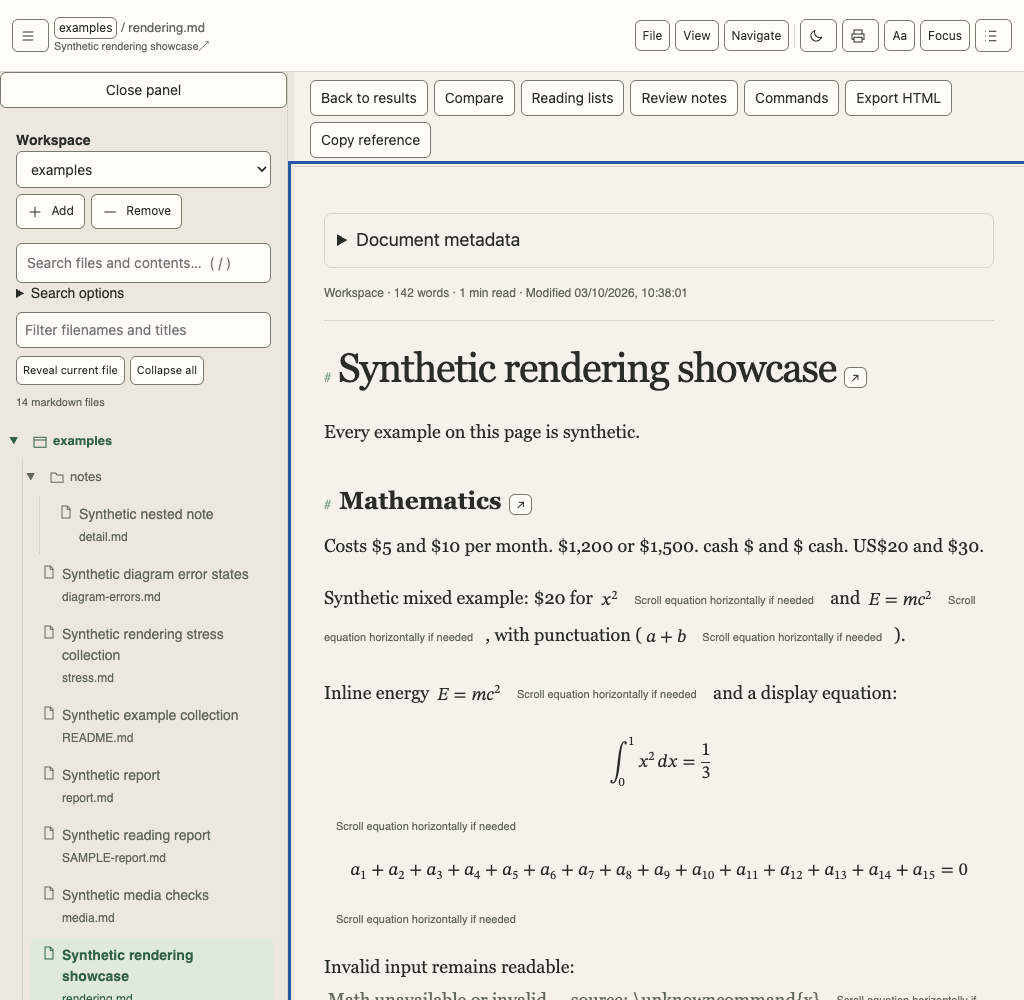
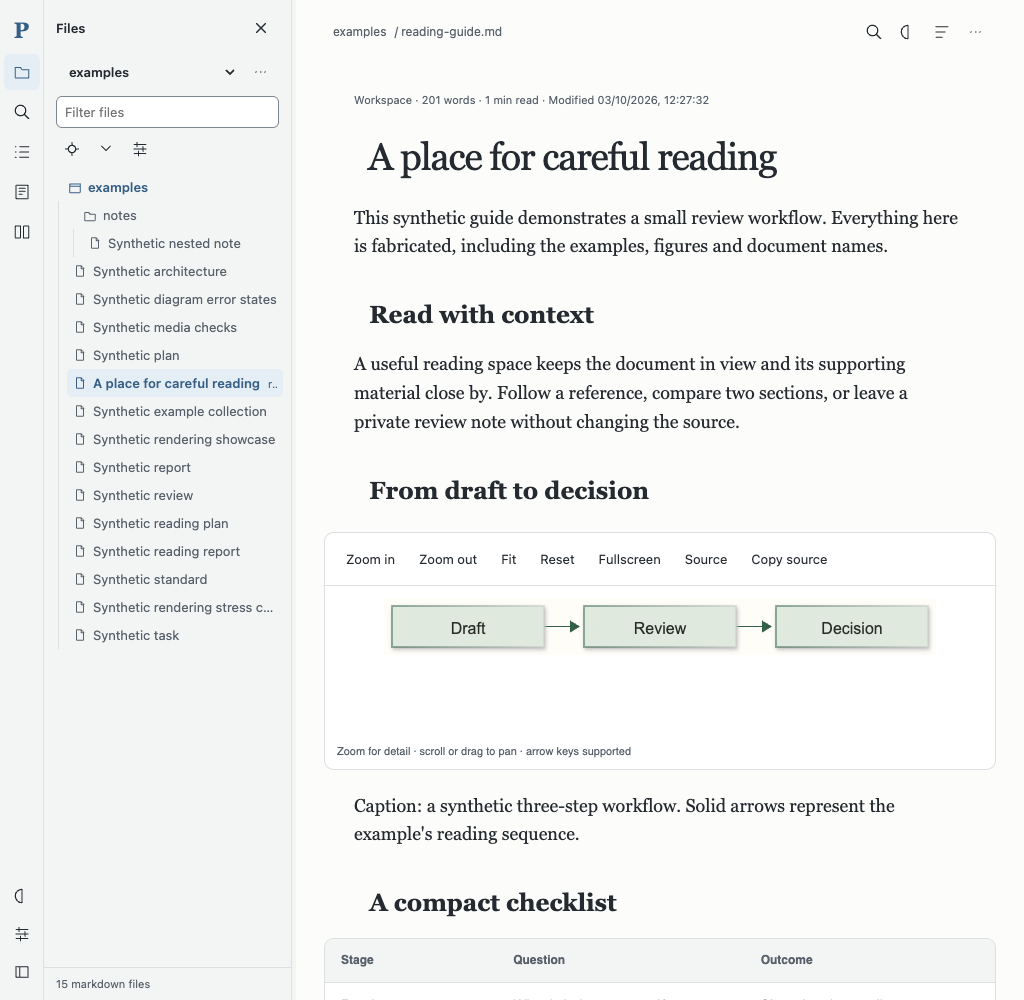
docs: document the reading shell and refresh clean demo images

diff --git a/README.md b/README.md
@@ -15,13 +15,17 @@ Open `http://127.0.0.1:8765`. Repeat `--root` for multiple startup folders; Ctrl
 
 ## Demo
 
+Passage uses a full-height icon rail, a compact section panel and a page header inside the reading column—not a stacked toolbar. Files, content Search, Lists, Notes and Compare are on the rail. Show rail labels if you prefer text. Below 1024px, the floating menu button opens these sections as a drawer.
+
+Open `reading-guide.md` for the clean synthetic tour. Text defaults to 68 characters (adjustable 60–75); tables, code, diagrams and display equations can use up to 1,100px of available width. The Outline/Notes/Lists panel collapses below 1280px. Search or jump opens Quick open or Commands with their shortcuts. Appearance groups theme, size, measure, font and Focus; More actions holds export, print, references and navigation.
+
 Open `rendering.md` for equations, footnotes and callouts. Follow the Chain from `SAMPLE-plan.md` to its report, compare Evidence sections, add a reading-list reference and export a local note. Commands lists reader controls.
 
 ![Synthetic desktop reading](docs/images/reading-1440.png)
 
 ![Synthetic narrow reading](docs/images/reading-390.png)
 
-These browser-generated images contain only synthetic examples, including deliberately hostile text displayed inertly to demonstrate escaping.
+These browser-generated images use a clean synthetic reading guide and fresh browser contexts, without attack-string fixtures or retained search/drawer state.
 At narrow widths the existing sidebar drawer overlays part of the document; close it to read the full width.
 
 ## Find and follow
@@ -79,7 +83,7 @@ Markdown and generated math pass through DOMPurify; diagram frames have no permi
 | Resize focused separator | Arrows, Home/End |
 | Pan focused diagram | Arrows |
 
-Actions without direct shortcuts use labelled controls or Commands. File/View/Navigate open their menus. Accessibility checks cover landmarks, labels, keyboard flows, focus return, reduced motion and measured palette contrast—not screen-reader certification.
+Actions without direct shortcuts use section buttons or Commands. Tree preferences are beside the filter; workspace actions are beside the folder switcher. Menus support arrows and Home/End, and the tree uses a single roving tab stop. Focus hides the rail and panels; move to the top edge or scroll up to reveal the overlay page header, or press Escape/use Exit focus to return. Overlay reveal does not move the document. Accessibility checks cover landmarks, labels, keyboard flows, focus return, reduced motion and measured palette contrast—not screen-reader certification.
 
 ## Documentation
 

diff --git a/docs/ARCHITECTURE.md b/docs/ARCHITECTURE.md
@@ -33,6 +33,28 @@ Caption: implemented document request flow. Legend: solid calls and dashed respo
 
 ## Implemented: responsibilities and technology
 
+The [shell](../web/shell.js) composes existing controls into a section rail, reusable panel hosts and an in-document page header. It owns panel visibility, drawer keyboard handling, remembered labels and focus-header geometry; existing modules still own navigation, search, review records and rendering. [Shell CSS](../web/shell.css) provides neutral chrome and responsive layout. [ADR 0010](decisions/0010-reading-shell.md) records alternatives and compatibility changes.
+
+```mermaid
+flowchart LR
+  Rail[Section rail or drawer tabs] --> Panel[Shared panel host]
+  Panel --> Files[Tree and content search]
+  Panel --> Reviews[Existing review records]
+  Page[In-document actions] --> Menus[Keyboard menus and palette]
+  Page --> Reading[Sanitized document]
+  Outline[Tabbed page tools] --> Reviews
+```
+
+Caption: implemented shell composition. Legend: solid arrows are existing UI calls; no source-write route is introduced.
+
+| Behavior / boundary | Regression evidence |
+| --- | --- |
+| Six-width chrome, compact rows, one filter, menu keys, panel access and roving tree focus | [chrome browser tests](../tests/chrome-browser.mjs) |
+| Focus hides side chrome; overlay does not move the heading; focused actions stay on screen | Chrome browser tests, existing anchor/refresh browser assertions |
+| Browse eligibility uses registration policy and retains Host/Origin/Fetch Metadata checks | [shell policy tests](../tests/test_shell.py) |
+| Currency inline helper suppression and overflow-only display hints | [release browser tests](../tests/release-browser.mjs) |
+| Public images use isolated state and exclude attack fixtures/stale controls | `publicScreenshots` in chrome browser tests |
+
 | Component | Responsibility / choice | Trade-off |
 | --- | --- | --- |
 | [HTTP](../server/http.py) | stdlib HTTP routing, exact request guards, explicit static MIME types | Suitable for a trusted local reader, not a production Internet server |

diff --git a/docs/feature-audit.md b/docs/feature-audit.md
@@ -1,5 +1,7 @@
 # Verified feature audit
 
+Reading-shell update: full-height section rail with remembered labels; compact Files/content Search and reusable Lists/Notes panels; in-document page actions and tabbed outline; small-screen section drawers; 68ch default text and wide technical blocks; Focus overlay and Escape exit. Menus and tree have explicit keyboard navigation. Folder eligibility is displayed before Add. Clean synthetic screenshot contexts replace reused hostile-fixture images. See [shell decision](decisions/0010-reading-shell.md) for compatibility and remaining audit limits.
+
 Settings/currency update: user-scoped defaults with non-destructive one-time legacy copying and explicit override; settings-enclosing roots remain refused. Folder and corrupt-review actions use in-page confirmation/status with keyboard cancellation and restored focus. Currency-safe delimiters preserve prose; numeric-leading inline equations require a nonnumeric prefix or display math. Unit and browser regressions cover these changes. Full-window synthetic screenshots show existing chrome; narrow navigation remains an overlapping drawer, not a redesign.
 
 Release-preparation update: sorted search covers up to 5,000 files with scanned/total notices; corrupt review state has explicit backup/reset. Native sanitized math, minimal footnotes/callouts/metadata/details, reference copy, inert HTML export, commands and recovery states are implemented. Diagram graphics in export use explicit source placeholders. No publication or tag is implied. Older audit paragraphs below describe their historical delivery scope.

diff --git a/CHANGELOG.md b/CHANGELOG.md
@@ -1,5 +1,11 @@
 # Changelog
 
+- Replace stacked toolbars with a full-height section rail, compact resizable Files/Search/Lists/Notes panel, in-document action header and tabbed page tools.
+- Add remembered rail labels, a dismissible shortcut hint, keyboard menus and roving tree focus; use drawers below 1024px and an outline drawer below 1280px.
+- Make Focus return the window to reading, with a non-shifting revealable header and Escape exit; centre 68-character text with wider technical blocks.
+- Show equation helper text only for overflowing display math. Generate clean synthetic screenshots from isolated browser contexts.
+- Expose folder registration eligibility through the existing guarded browse response and disable invalid Add actions with an explanation.
+
 - Keep currency amounts literal while rendering properly delimited inline and display math.
 - Move default reader settings outside the checkout, retaining legacy files in a non-overwriting one-time migration; preserve explicit settings overrides.
 - Replace native alert/confirmation boxes with keyboard-accessible in-page confirmations and action-local errors.

diff --git a/docs/known-rendering-issues.md b/docs/known-rendering-issues.md
@@ -2,7 +2,7 @@
 
 ## Current disposition
 
-Currency amounts now remain literal: inline math cannot start with whitespace or a digit, end with whitespace, or close before a digit. Display math and protected code are unchanged. MathML layout remains browser-dependent, and inline equations retain the existing scroll hints. Narrow screenshots show the existing sidebar overlay obscuring part of the document; this task does not redesign it.
+Currency amounts remain literal: inline math cannot start with whitespace or a digit, end with whitespace, or close before a digit. Display math and protected code are unchanged. MathML layout remains browser-dependent. Inline helper text is removed; only overflowing display equations show a visible hint. Narrow section drawers overlay the document intentionally; close the drawer for full-width reading.
 
 The original observations below are retained as the baseline. The current real-browser matrix checks every example at 1440, 1024 and 390px in light and dark.
 

diff --git a/docs/index.md b/docs/index.md
@@ -20,6 +20,7 @@ Passage is a local, read-only Markdown reader for technical document sets. This 
    - [0007 Heading-aligned compare](decisions/0007-heading-aligned-compare.md): how two documents line up.
    - [0008 Safe math and export](decisions/0008-safe-math-and-export.md): math rendering and HTML export.
    - [0009 User-scoped settings](decisions/0009-user-settings.md): default location, legacy migration and confirmation behavior.
+   - [0010 Reading-first shell](decisions/0010-reading-shell.md): section rail, shared panels and focus geometry.
 
 ## What works, what does not
 
